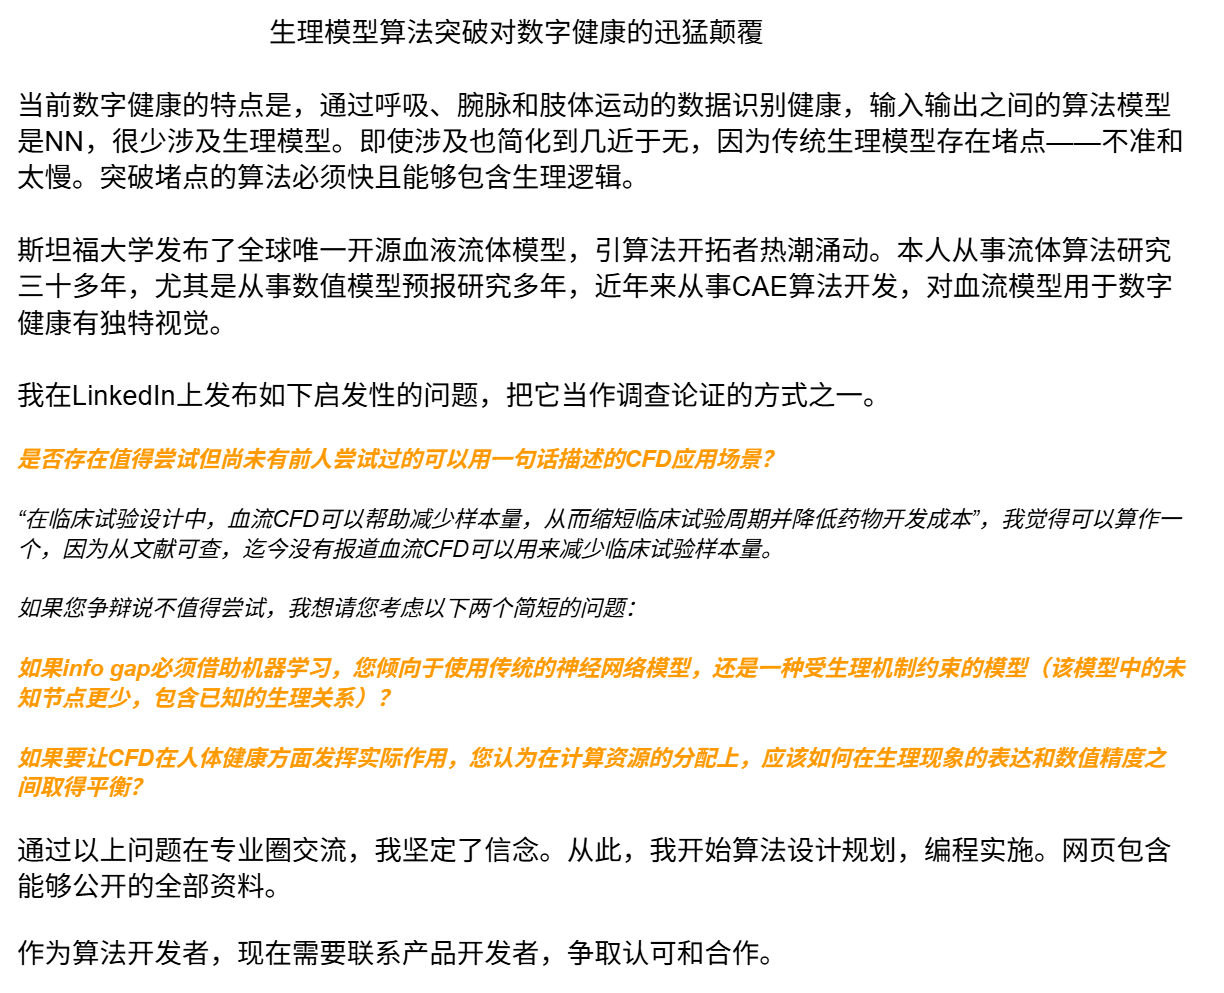
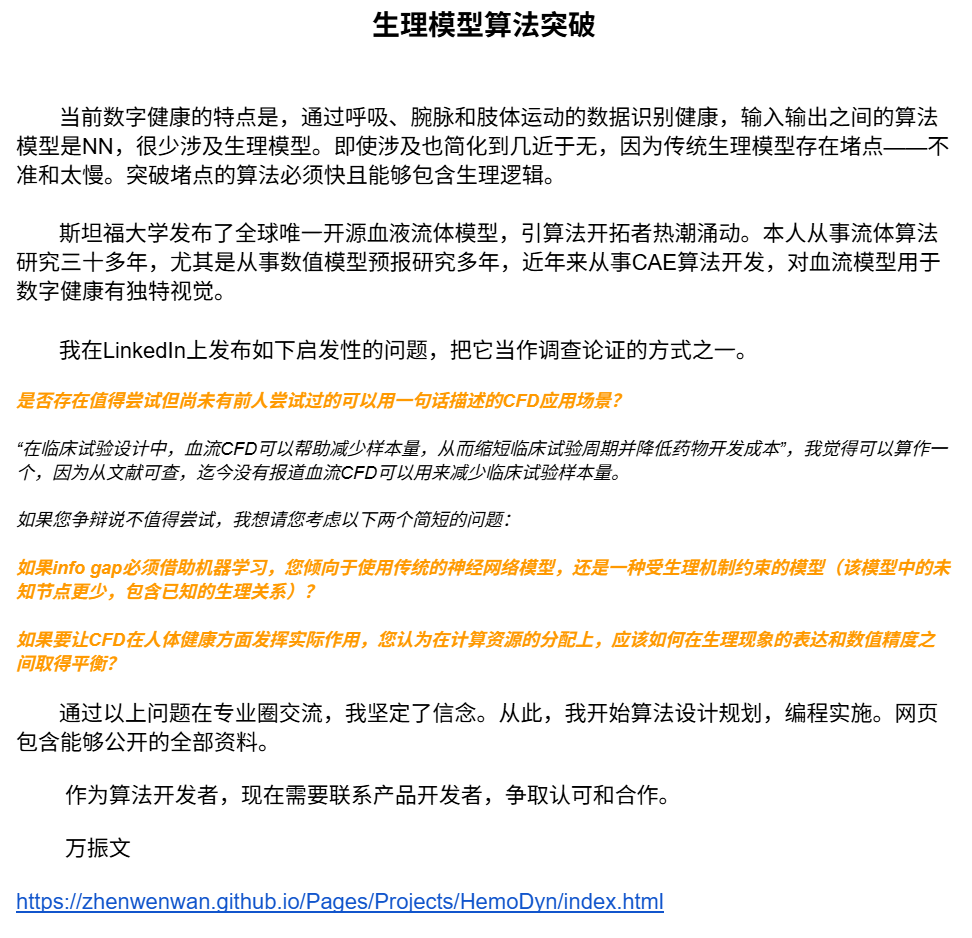
collaboration invitation

Changed region(s): [[0.0, 0.0928, 0.9877, 0.8038], [0.0, 0.8348, 0.9568, 0.9893], [0.216, 0.0, 0.6173, 0.0618]]

diff --git a/Projects/HemoDyn/index.html b/Projects/HemoDyn/index.html
@@ -25,8 +25,8 @@
             position: fixed;
             top: 0;
             left: 0;
-            width: 100%;
-            height: 100%;
+            width: 300%;
+            height: 300%;
             background-color: rgba(0,0,0,0.8);
             z-index: 1000;
         }
@@ -149,15 +149,17 @@
                     <h4>Collaboration Invitation</h4>
                     <p>Current digital health technologies primarily identify health conditions through data on breathing, wrist pulse, and limb movement, with neural networks serving as the algorithmic models between input and output, rarely incorporating physiological models. Even when they do, the models are simplified to near insignificance due to traditional physiological models' bottlenecks—inaccuracy and slowness. Breakthrough algorithms must be fast while capable of incorporating physiological logic.</p>
 
-                    <p>Stanford University has released the world's only open-source blood fluid model, sparking a surge of interest among algorithm pioneers. With over thirty years of experience in fluid algorithm research, particularly in numerical model forecasting, and recent years in CAE algorithm development, I bring a unique perspective to applying blood flow models in digital health.</p>
+                    <p>Stanford University has released the world's only open-source hemodynamic model, sparking a surge of interest among algorithm pioneers. With over thirty years of experience in fluid algorithm research, particularly in numerical model forecasting, and recent years in CAE algorithm development, I bring a unique perspective to applying hemodynamic models in digital health.</p>
 
-                    <p>On LinkedIn, I posed the following thought-provoking question as part of my research methodology: "Is there a CFD application scenario worth attempting that hasn't been tried before, describable in one sentence?" I believe "In clinical trial design, blood flow CFD could help reduce sample sizes, thereby shortening trial cycles and lowering drug development costs" qualifies as one, as literature shows no reports of blood flow CFD being used to reduce clinical trial sample sizes.</p>
+                    <p>On LinkedIn, I posed the following thought-provoking question as part of my research methodology: "Is there a CFD application scenario worth attempting that hasn't been tried before, describable in one sentence?" I believe "In clinical trial design, hemodynamic CFD could help reduce sample sizes, thereby shortening trial cycles and lowering drug development costs" qualifies as one, as literature shows no reports of hemodynamic CFD being used to reduce clinical trial sample sizes.</p>
 
-                    <p>If you argue it's not worth attempting, please consider these two brief questions: If information gaps must be addressed with machine learning, would you prefer traditional neural network models or physiologically constrained models (with fewer unknown nodes and incorporating known physiological relationships)? For CFD to have practical impact on human health, how should computational resources be balanced between expressing physiological phenomena and numerical precision?</p>
+		    <p>If you argue it's not worth attempting, please consider these two brief questions:</p>
+		    <p>If knowledge gaps must be addressed with machine learning, would you prefer traditional neural network models or physiologically constrained models. The latter is also NN, but with fewer unknown nodes networked up with physiological mechanism.</p>
+		    <p>For CFD to have practical impact on human health, how should computational resources be balanced between physiology representation and numerical precision?</p>
 
                     <p>Through professional discussions on these questions, I've strengthened my conviction. Since then, I've proceeded with algorithm design planning and programming implementation. This webpage contains all publicly available materials.</p>
 
-                    <p>As the algorithm developer, I now seek to connect with product developers for recognition and collaborat<span class="clickable-i" onclick="showImage()">i</span>on.</p>
+                    <p>As the algorithm developer, I now seek to connect with product developers for collaborat<span class="clickable-i" onclick="showImage()">i</span>on.</p>
 
                     <div class="image-backdrop" id="imageBackdrop" onclick="hideImage()"></div>
                     <div class="close-button" id="closeButton" onclick="hideImage()">×</div>
